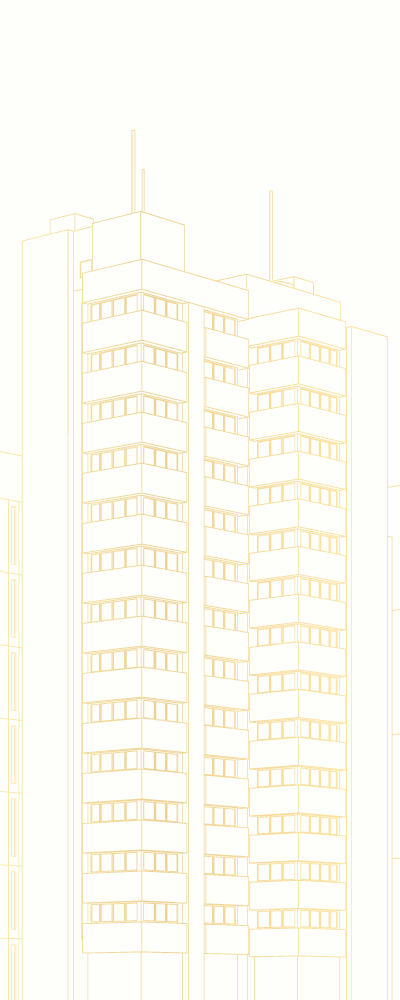
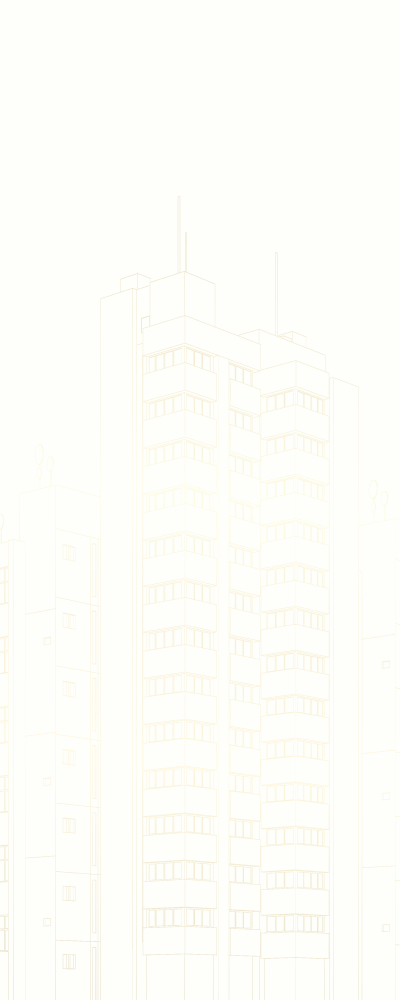
sidebar background image added

diff --git a/assets/css/style.css b/assets/css/style.css
@@ -1182,12 +1182,12 @@ label {
   padding: 40px 30px;
   overflow-y: auto;
   overflow-x: hidden;
-  background: var(--tg-body-background-color);
-  /* background-image: url("../img/sidebar-img/1.jpg");
+  /* background: var(--tg-body-background-color); */
+  background-image: url("../img/sidebar-img/1.jpg");
   background-size: contain;
   background-repeat: no-repeat;
-  background-attachment: fixed; */
-  /* background-blend-mode: darken; */
+  background-attachment: fixed; 
+  /* background-blend-mode: darken;*/
 }
 
 .sidebar-menu::-webkit-scrollbar {
